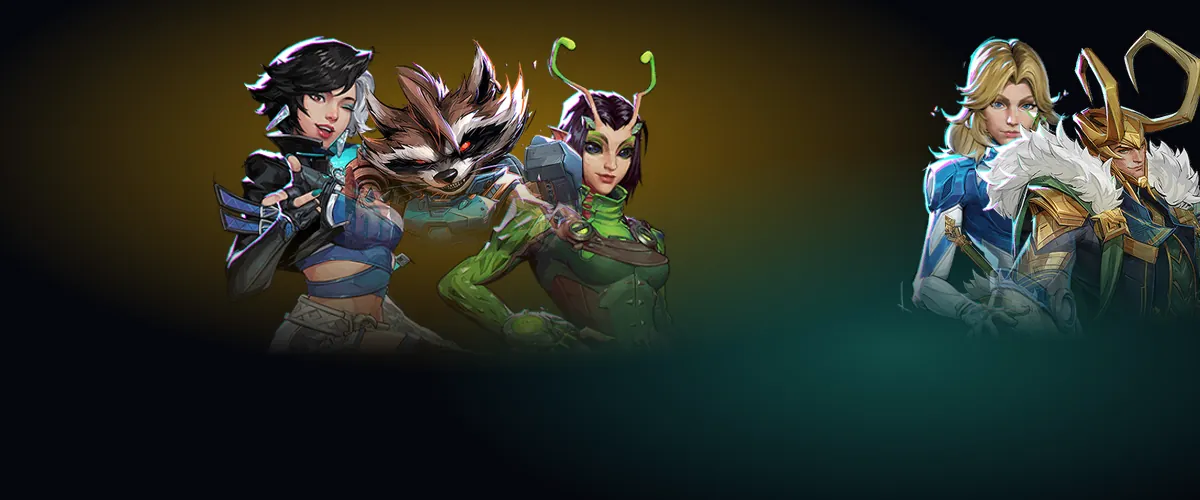
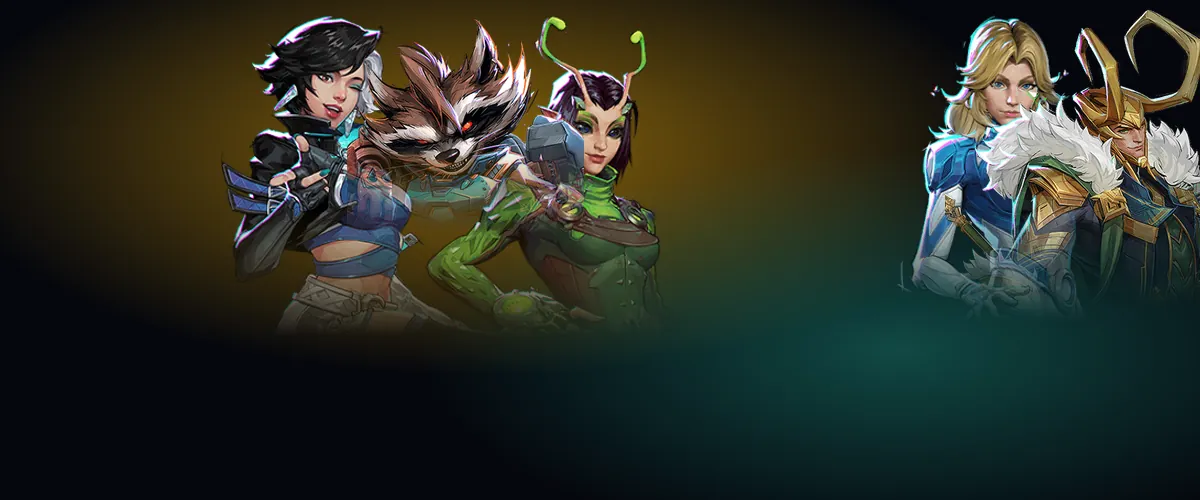
fix(guides): keep the Strategist lead text clear of the faces, and tidy review findings
Raise the heroes in the banner and make the lead tile taller on phones so the
title sits below the faces. Target the lead tile with a class, say why the
tile-actions slot needs a route-less lead tile, and let the page header say
what the page is while the tile keeps the topic list.

Changed region(s): [[0.1542, 0.03, 0.555, 0.69], [0.74, 0.03, 1.0, 0.66]]

diff --git a/src/app/features/hub/hub-tile/hub-tile.component.ts b/src/app/features/hub/hub-tile/hub-tile.component.ts
@@ -13,9 +13,11 @@ import { KindChipComponent } from '../kind-chip/kind-chip.component';
  * behind a scrim, which makes the card the hub's lead tile, and `playMarker` to add a play button
  * over it for a card that opens video; `imageFit` says how the art sits, and `lazyArt` defers loading
  * it for a card that starts below the fold. A card with no key art can
- * give `thumbnailUrl` for a small square picture beside its text. A card with no `route` can carry
- * its own links or buttons: content marked `tile-actions` sits under the description and, unlike the
- * preview, stays visible to assistive technology.
+ * give `thumbnailUrl` for a small square picture beside its text. A lead tile with no `route`
+ * can carry its own links or buttons: content marked `tile-actions` sits under the description and,
+ * unlike the preview, stays visible to assistive technology. It needs a tile with no route because
+ * a routed card's title link stretches over the whole card and would cover the actions, and it is
+ * placed only in the lead layout, not in the `thumbnailUrl` or `split` ones.
  */
 @Component({
   selector: 'app-hub-tile',

diff --git a/src/app/features/learning/guides/strategist-guides/strategist-guides-page.component.html b/src/app/features/learning/guides/strategist-guides/strategist-guides-page.component.html
@@ -1,10 +1,11 @@
 <div class="hub page-container page-container--wide">
   <app-page-header
     title="Strategist guides"
-    description="Ten transcript-built guides on positioning, healing priorities and ultimate economy."
+    description="Ten transcript-built guides from the Strategist video playlist."
   />
 
   <app-hub-tile
+    class="lead"
     title="Turn support decisions into repeatable wins."
     description="Positioning, healing priorities, damage windows, ultimate economy, anti-dive survival and Rocket Raccoon mastery: about 4½ hours of video distilled into drills and decision rules."
     [imageUrl]="leadImage"

diff --git a/src/app/features/learning/guides/strategist-guides/strategist-guides-page.component.css b/src/app/features/learning/guides/strategist-guides/strategist-guides-page.component.css
@@ -4,7 +4,7 @@
   padding-block: 16px 32px;
 }
 
-.hub app-hub-tile {
+app-hub-tile.lead {
   /* Taller than the lead tile's own minimum, so the heroes' faces sit above the text rather than under it. */
   min-height: 300px;
 }
@@ -30,7 +30,7 @@
 }
 
 @media (max-width: 560px) {
-  .hub app-hub-tile {
-    min-height: 340px;
+  app-hub-tile.lead {
+    min-height: 360px;
   }
 }
